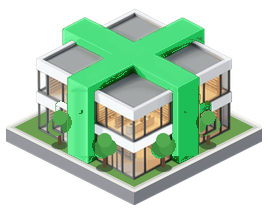
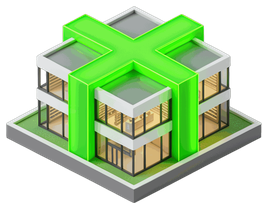
Pharmacie sans arbres, croix verte lumineuse
Claude-Session: https://claude.ai/code/session_01GArnKYW6kkDaRqVDc5pfp5

diff --git a/tools/factory_ai/build_manifest.py b/tools/factory_ai/build_manifest.py
@@ -434,6 +434,9 @@ gg('bat_hopital_rb_b','gab_hopital_rb','a clean refined 3D miniature of a hospit
 gg('bat_pharmacie_rc_b','gab_pharmacie_rb','a clean refined 3D miniature of a pharmacy, keep EXACTLY the Greek cross plan of the reference with four arms of equal length, two storeys, pure white walls, big glass windows with warm lit shelves inside, light grey flat roofs, one flat low green cross-shaped slab lying on the central roof like a thin raised cross plaque, nothing rising above it, no pole, no arm, no stand, NO green walls and NO green pillars at ground level, grass plot with a light grey curb, small trees at the plot edge only, no cars, no people, no text, no letters, no logo, tidy',lot='lot24')
 gg('bat_hopital_rb_c','gab_hopital_rb','a clean refined 3D miniature of a hospital, keep EXACTLY the plan and proportions of the reference: two long parallel five storey wings joined by a central bridge body exactly in the middle, flat roofs painted bright red, all walls pure bright white, light blue glass windows in neat rows, glass ground floor entrance with a small white canopy facing the courtyard, bare flat red roofs with NO cross, NO objects and NO sign on the roofs, grass plot with a light grey curb, a few small trees at the plot edge only, no cars, no people, no text, no letters, no logo, red and white, symmetrical',lot='lot24')
 gg('bat_pharmacie_rc_c','gab_pharmacie_rb','a clean refined 3D miniature of a pharmacy, keep EXACTLY the Greek cross plan of the reference with four arms of equal length, two storeys, pure white walls, big glass windows with warm lit shelves inside, light grey flat roofs, one flat low green cross-shaped slab lying on the central roof like a thin raised cross plaque, nothing rising above it, no pole, no arm, no stand, NO green walls and NO green pillars at ground level, grass plot with a light grey curb, small trees at the plot edge only, no cars, no people, no text, no letters, no logo, tidy',lot='lot24')
+gg('bat_pharmacie_nt_a','gab_pharmacie_nt','the exact same pharmacy building seen from the exact same angle: keep the cross plan, the white slabs, the glass walls with lit shelves, the thick green cross volume and the grey roofs unchanged. REMOVE all four trees and all bushes and their shadows: the plot is plain flat light green lawn with a white and grey curb only. The green cross volume glows like a bright luminous neon tube, vivid emerald green, lit from within. no people, no cars, no text, no letters, no logo',lot='lot24')
+gg('bat_pharmacie_nt_b','gab_pharmacie_nt','the exact same pharmacy building seen from the exact same angle: keep the cross plan, the white slabs, the glass walls with lit shelves, the thick green cross volume and the grey roofs unchanged. REMOVE all four trees and all bushes and their shadows: the plot is plain flat light green lawn with a white and grey curb only. The green cross volume glows like a bright luminous neon tube, vivid emerald green, lit from within. no people, no cars, no text, no letters, no logo, clean',lot='lot24')
+gg('bat_pharmacie_nt_c','gab_pharmacie_nt','the exact same pharmacy building seen from the exact same angle: keep the cross plan, the white slabs, the glass walls with lit shelves, the thick green cross volume and the grey roofs unchanged. REMOVE all four trees and all bushes and their shadows: the plot is plain flat light green lawn with a white and grey curb only. The green cross volume glows like a bright luminous neon tube, vivid emerald green, lit from within. no people, no cars, no text, no letters, no logo, clean',lot='lot24')
 json.dump({'sprites': M, 'planches': PLANCHES,
            'test': ['camion_rouge_ouvert', 'machine_assemblage', 'poses/ouvrier_gilet_orange_porte_carton']},
           open(os.path.join(ICI, 'manifest.json'), 'w'), indent=1, ensure_ascii=False)

diff --git a/tools/factory_ai/RETOURS.md b/tools/factory_ai/RETOURS.md
@@ -194,3 +194,6 @@ Livrés, sans texte, marge 6 px, QA asset_qa : pente 0,50, débordement 0 % (mé
 
 ## Retour de Rémy (4) : EMERGENCY réduit
 - Hôpital : « EMERGENCY » ramené à un petit bandeau (≈110 px) près de l'entrée au lieu de toute la longueur de la façade ; « HOSPITAL » sur le toit et héliport conservés.
+
+## Retour de Rémy (5) : pharmacie sans arbres, croix lumineuse
+- Pharmacie : arbres supprimés ; croix verte éclairée façon néon (vert émeraude lumineux, reflets sur la dalle). Régénérée avec flux2-edit à partir du bâtiment précédent (gab_pharmacie_nt), variante b retenue. 268×209, pente 0,52, débord 0, centrage ≈ 0. Ombre au sol régénérée.
